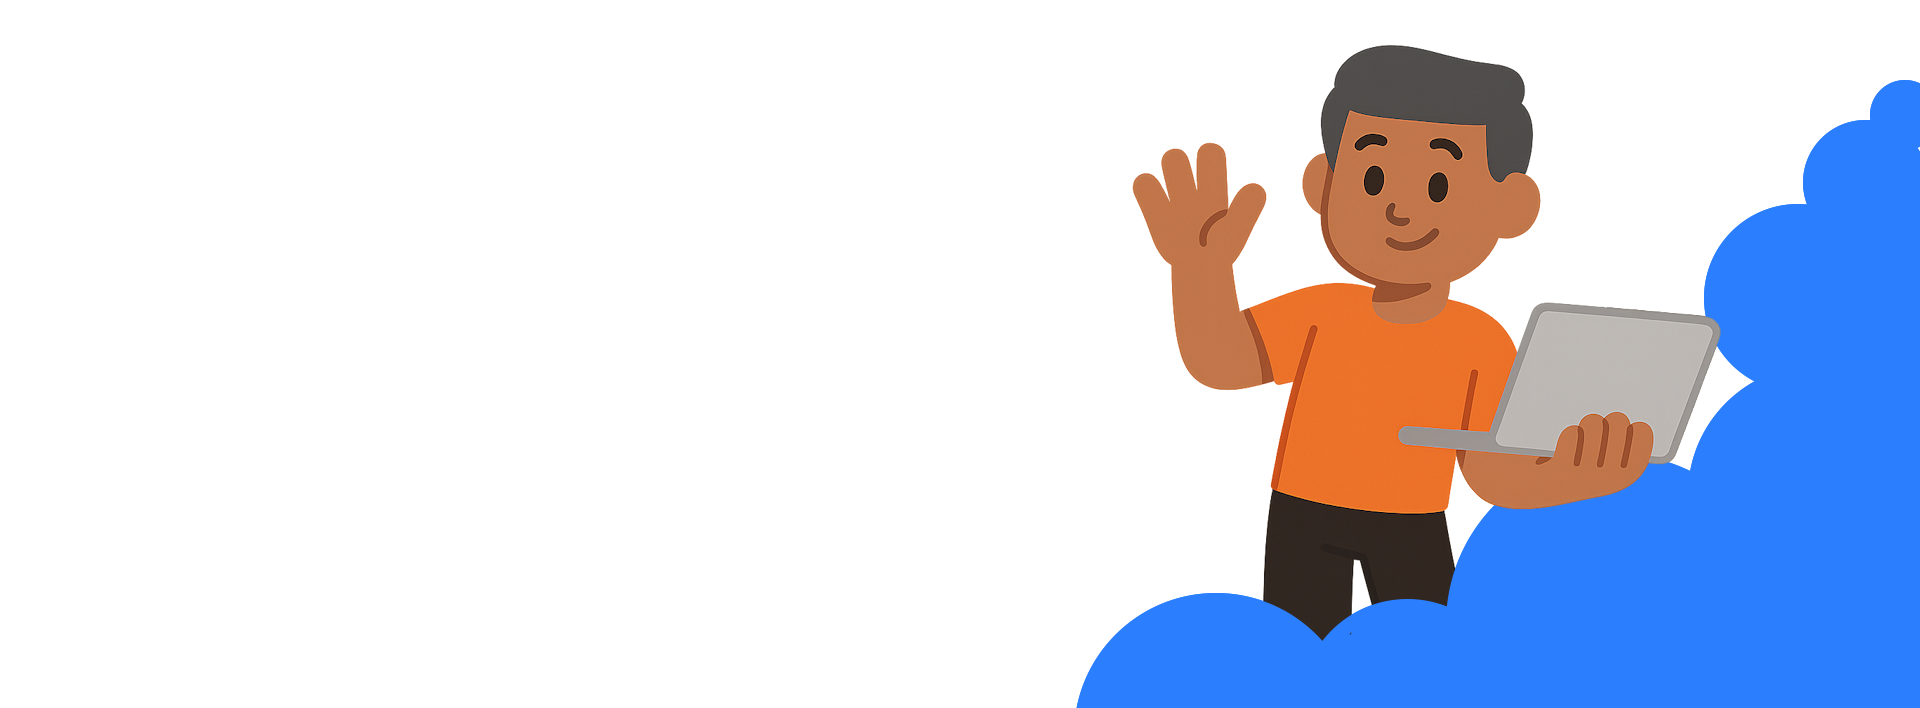
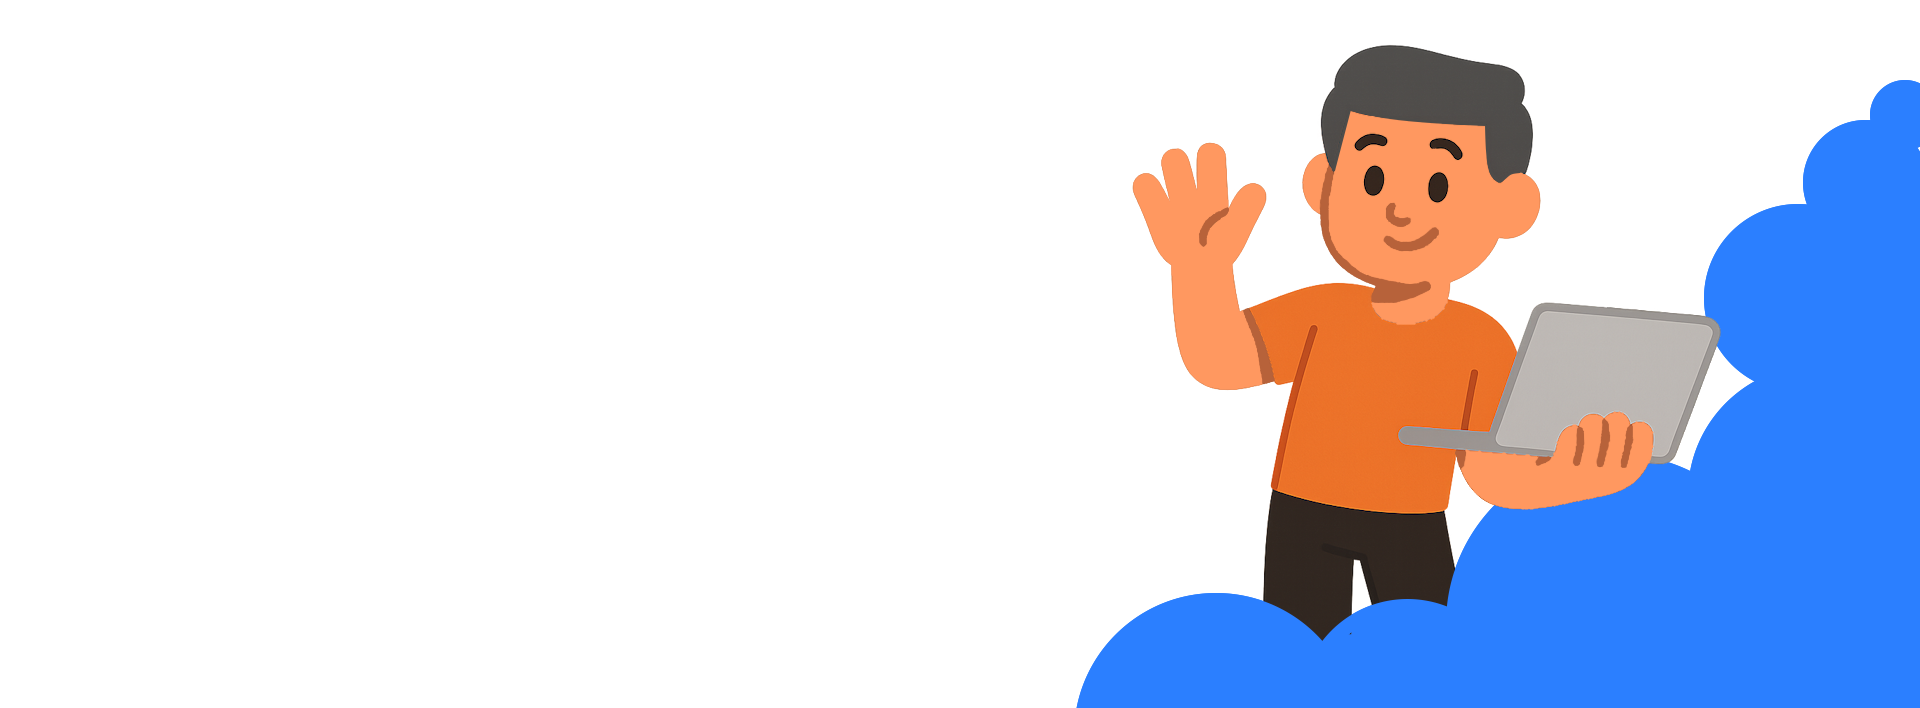
feat: add dark mode color for hero image.

Changed region(s): [[0.5938, 0.1554, 0.8125, 0.5593], [0.75, 0.5904, 0.875, 0.7458]]

diff --git a/src/components/index/Hero.tsx b/src/components/index/Hero.tsx
@@ -9,6 +9,7 @@ import Button from "@/components/ui/Button";
 import TechItem from "@/components/ui/TechItem";
 import SocialLink from "@/components/ui/SocialLink";
 import WaveImg from "@/assets/wave.png";
+import WaveImgDM from "@/assets/wave-dm.png";
 import { useState } from "react";
 
 function goToContact() {
@@ -57,8 +58,12 @@ export default function Hero() {
       id="hero"
     >
       <img
-        className="hidden md:flex md:shown absolute bottom-[-5px] right-0 z-0 max-h-[425px] md:max-h-[560px] "
+        className="hidden dark:md:hidden md:flex absolute bottom-[-5px] right-0 z-0 max-h-[425px] md:max-h-[560px] "
         src={WaveImg}
+      />
+      <img
+        className="hidden dark:md:flex md:shown absolute bottom-[-5px] right-0 z-0 max-h-[425px] md:max-h-[560px] "
+        src={WaveImgDM}
       />
       <main className="flex flex-col items-center md:items-start gap-10 md:gap-15 text-center md:text-start z-10">
         <h1 className="text-4xl md:text-5xl lg:text-6xl font-bold text-neutral-900 dark:text-white">

diff --git a/src/components/index/Projects/Projects.tsx b/src/components/index/Projects/Projects.tsx
@@ -4,7 +4,7 @@ import ProjectCard from "@/components/index/Projects/ProjectCard";
 export default function Projects() {
   return (
     <div
-      className="py-20 flex flex-col items-center justify-center bg-blue-500 text-white"
+      className="py-20 flex flex-col items-center justify-center bg-blue-500 dark:bg-violet-900 text-white"
       id="projects"
     >
       <h1 className="text-3xl">PROJETOS</h1>
